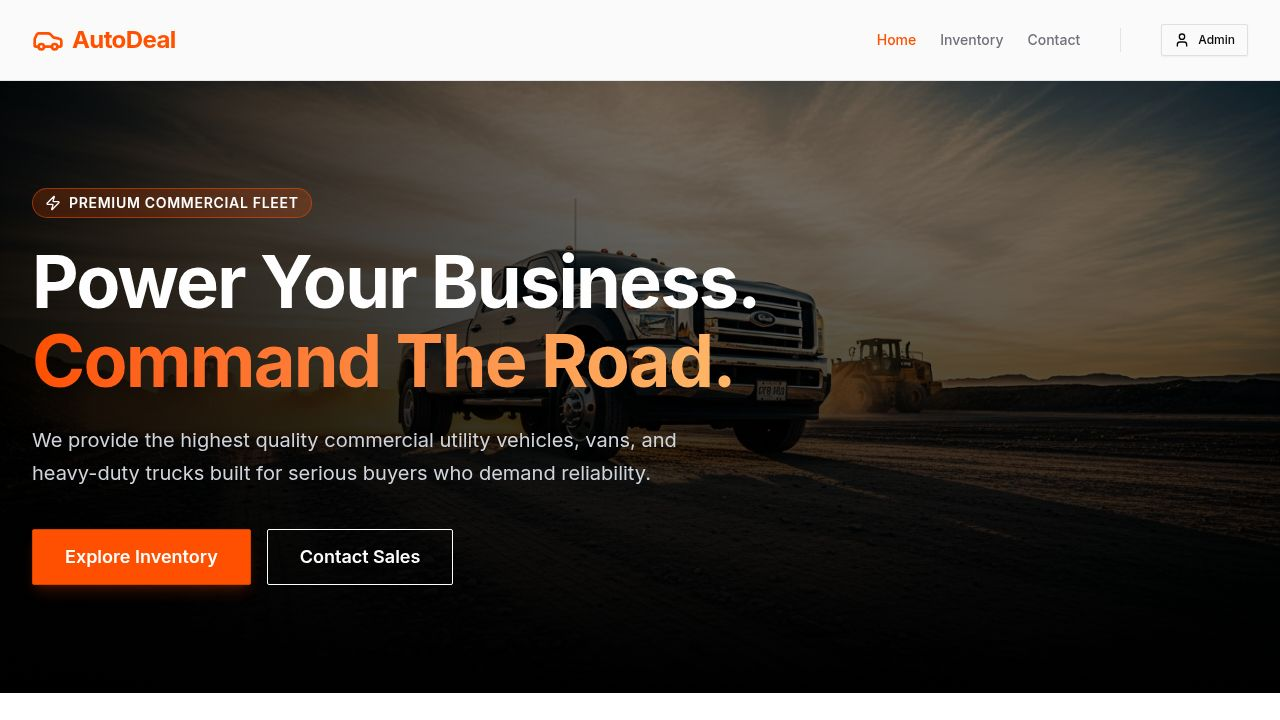
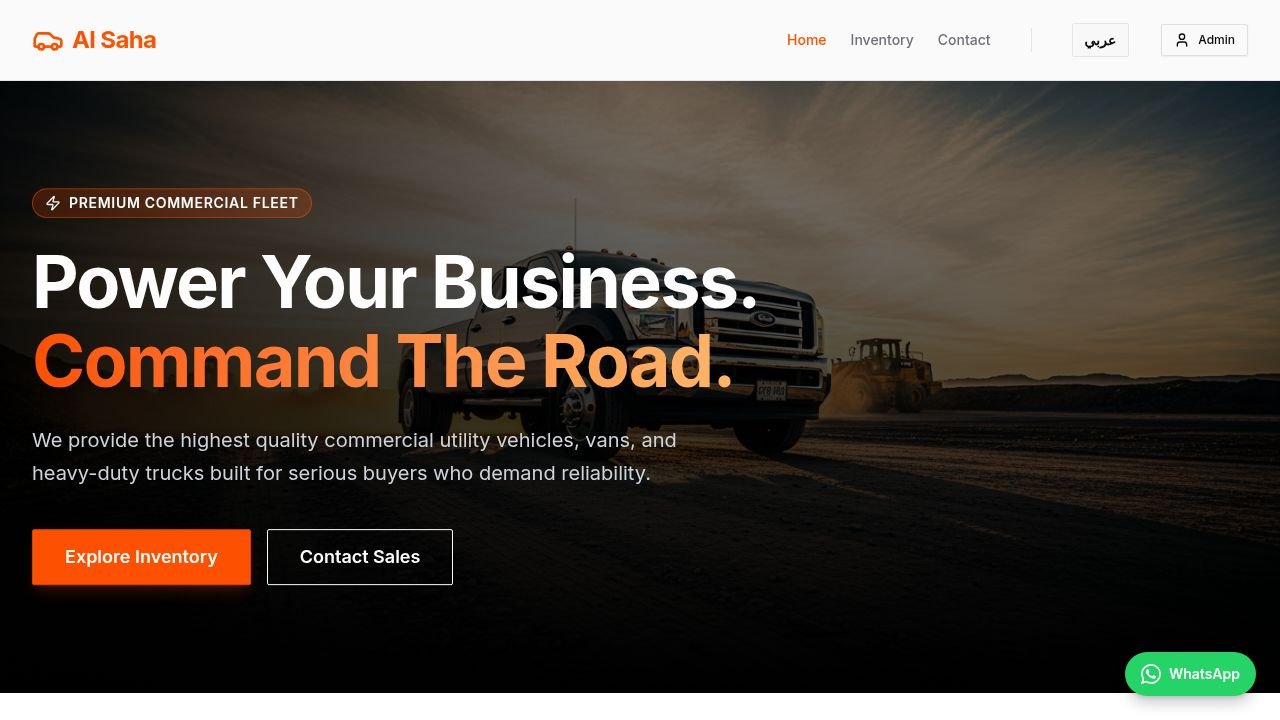
Enhance website security and add social media links
Integrate Helmet and rate-limiting middleware for API security, remove Replit branding, and add Facebook and WhatsApp links to the footer and contact page.

Replit-Commit-Author: Agent
Replit-Commit-Session-Id: ceb3cc87-1b48-4a02-8dc0-49e690403f3d
Replit-Commit-Checkpoint-Type: full_checkpoint
Replit-Commit-Event-Id: 10c99345-e737-48c0-a114-7ad992cdfd30
Replit-Commit-Screenshot-Url: https://storage.googleapis.com/screenshot-production-us-central1/a4580499-bd82-4671-9a9f-4544a6e9dfa8/ceb3cc87-1b48-4a02-8dc0-49e690403f3d/r27SVUo
Replit-Helium-Checkpoint-Created: true

diff --git a/artifacts/car-dealership/src/components/layout/Footer.tsx b/artifacts/car-dealership/src/components/layout/Footer.tsx
@@ -1,6 +1,17 @@
 import { Link } from "wouter";
-import { Car, Mail, MapPin, Phone } from "lucide-react";
+import { Car, Mail, Phone } from "lucide-react";
 import { useLanguage } from "@/contexts/LanguageContext";
+
+const FACEBOOK_URL = "https://www.facebook.com/share/18Nk4Pe6bY/?mibextid=wwXIfr";
+const WHATSAPP_URL = "https://wa.me/962787929281";
+
+function FacebookIcon({ className }: { className?: string }) {
+  return (
+    <svg xmlns="http://www.w3.org/2000/svg" viewBox="0 0 24 24" fill="currentColor" className={className}>
+      <path d="M24 12.073c0-6.627-5.373-12-12-12s-12 5.373-12 12c0 5.99 4.388 10.954 10.125 11.854v-8.385H7.078v-3.47h3.047V9.43c0-3.007 1.792-4.669 4.533-4.669 1.312 0 2.686.235 2.686.235v2.953H15.83c-1.491 0-1.956.925-1.956 1.874v2.25h3.328l-.532 3.47h-2.796v8.385C19.612 23.027 24 18.062 24 12.073z" />
+    </svg>
+  );
+}
 
 export function Footer() {
   const { t } = useLanguage();
@@ -9,6 +20,8 @@ export function Footer() {
     <footer className="bg-sidebar border-t border-border mt-auto">
       <div className="container mx-auto px-4 md:px-8 py-12 md:py-16">
         <div className="grid grid-cols-1 md:grid-cols-4 gap-8 md:gap-12">
+
+          {/* Brand */}
           <div className="space-y-4">
             <Link href="/" className="flex items-center gap-2 font-bold text-2xl tracking-tight text-primary">
               <Car className="h-8 w-8" />
@@ -17,8 +30,32 @@ export function Footer() {
             <p className="text-sm text-muted-foreground leading-relaxed max-w-xs">
               {t.footer.description}
             </p>
+            {/* Social Icons */}
+            <div className="flex items-center gap-3 pt-1">
+              <a
+                href={FACEBOOK_URL}
+                target="_blank"
+                rel="noopener noreferrer"
+                aria-label="Facebook"
+                className="h-9 w-9 flex items-center justify-center rounded-full bg-[#1877F2]/10 text-[#1877F2] hover:bg-[#1877F2]/20 transition-colors"
+              >
+                <FacebookIcon className="h-5 w-5" />
+              </a>
+              <a
+                href={WHATSAPP_URL}
+                target="_blank"
+                rel="noopener noreferrer"
+                aria-label="WhatsApp"
+                className="h-9 w-9 flex items-center justify-center rounded-full bg-[#25D366]/10 text-[#25D366] hover:bg-[#25D366]/20 transition-colors"
+              >
+                <svg xmlns="http://www.w3.org/2000/svg" viewBox="0 0 24 24" fill="currentColor" className="h-5 w-5">
+                  <path d="M17.472 14.382c-.297-.149-1.758-.867-2.03-.967-.273-.099-.471-.148-.67.15-.197.297-.767.966-.94 1.164-.173.199-.347.223-.644.075-.297-.15-1.255-.463-2.39-1.475-.883-.788-1.48-1.761-1.653-2.059-.173-.297-.018-.458.13-.606.134-.133.298-.347.446-.52.149-.174.198-.298.298-.497.099-.198.05-.371-.025-.52-.075-.149-.669-1.612-.916-2.207-.242-.579-.487-.5-.669-.51-.173-.008-.371-.01-.57-.01-.198 0-.52.074-.792.372-.272.297-1.04 1.016-1.04 2.479 0 1.462 1.065 2.875 1.213 3.074.149.198 2.096 3.2 5.077 4.487.709.306 1.262.489 1.694.625.712.227 1.36.195 1.871.118.571-.085 1.758-.719 2.006-1.413.248-.694.248-1.289.173-1.413-.074-.124-.272-.198-.57-.347m-5.421 7.403h-.004a9.87 9.87 0 01-5.031-1.378l-.361-.214-3.741.982.998-3.648-.235-.374a9.86 9.86 0 01-1.51-5.26c.001-5.45 4.436-9.884 9.888-9.884 2.64 0 5.122 1.03 6.988 2.898a9.825 9.825 0 012.893 6.994c-.003 5.45-4.437 9.884-9.885 9.884m8.413-18.297A11.815 11.815 0 0012.05 0C5.495 0 .16 5.335.157 11.892c0 2.096.547 4.142 1.588 5.945L.057 24l6.305-1.654a11.882 11.882 0 005.683 1.448h.005c6.554 0 11.89-5.335 11.893-11.893a11.821 11.821 0 00-3.48-8.413z" />
+                </svg>
+              </a>
+            </div>
           </div>
 
+          {/* Quick Links */}
           <div className="space-y-4">
             <h3 className="font-semibold text-lg">{t.footer.quickLinks}</h3>
             <ul className="space-y-2">
@@ -32,20 +69,21 @@ export function Footer() {
                   {t.footer.contactUs}
                 </Link>
               </li>
+              <li>
+                <a href={FACEBOOK_URL} target="_blank" rel="noopener noreferrer" className="text-sm text-muted-foreground hover:text-primary transition-colors">
+                  Facebook
+                </a>
+              </li>
             </ul>
           </div>
 
+          {/* Contact */}
           <div className="space-y-4 md:col-span-2">
             <h3 className="font-semibold text-lg">{t.footer.contactLocation}</h3>
             <ul className="space-y-3">
               <li className="flex items-center gap-3 text-sm text-muted-foreground">
                 <Phone className="h-5 w-5 text-primary shrink-0" />
-                <a
-                  href="https://wa.me/962787929281"
-                  target="_blank"
-                  rel="noopener noreferrer"
-                  className="hover:text-primary transition-colors"
-                >
+                <a href={WHATSAPP_URL} target="_blank" rel="noopener noreferrer" className="hover:text-primary transition-colors" dir="ltr">
                   0787929281
                 </a>
               </li>
@@ -53,13 +91,19 @@ export function Footer() {
                 <Mail className="h-5 w-5 text-primary shrink-0" />
                 <span>aabuashour3@gmail.com</span>
               </li>
+              <li className="flex items-center gap-3 text-sm text-muted-foreground">
+                <FacebookIcon className="h-5 w-5 text-[#1877F2] shrink-0" />
+                <a href={FACEBOOK_URL} target="_blank" rel="noopener noreferrer" className="hover:text-primary transition-colors">
+                  معرض الساحة — Facebook
+                </a>
+              </li>
             </ul>
           </div>
         </div>
 
         <div className="mt-12 pt-8 border-t border-border flex flex-col md:flex-row items-center justify-between gap-4">
           <p className="text-sm text-muted-foreground">
-            © {new Date().getFullYear()} Al Saha. {t.footer.rights}
+            © {new Date().getFullYear()} معرض الساحة — Al Saha. {t.footer.rights}
           </p>
           <div className="flex gap-4 text-sm text-muted-foreground">
             <span className="cursor-pointer hover:text-primary transition-colors">{t.footer.privacy}</span>

diff --git a/artifacts/api-server/src/app.ts b/artifacts/api-server/src/app.ts
@@ -1,39 +1,92 @@
-import express, { type Express } from "express";
+import express, { type Express, type Request, type Response, type NextFunction } from "express";
 import cors from "cors";
 import path from "path";
 import pinoHttp from "pino-http";
+import helmet from "helmet";
+import rateLimit from "express-rate-limit";
 import router from "./routes";
 import { logger } from "./lib/logger";
 
 const app: Express = express();
 
+/* ── Security headers ─────────────────────────────────────────────────────── */
+app.use(
+  helmet({
+    crossOriginResourcePolicy: { policy: "cross-origin" }, // allow images served from /api/uploads
+    contentSecurityPolicy: false, // frontend handles its own CSP
+  })
+);
+
+/* Remove fingerprinting header */
+app.disable("x-powered-by");
+
+/* ── CORS ─────────────────────────────────────────────────────────────────── */
+app.use(
+  cors({
+    origin: process.env.ALLOWED_ORIGIN || true, // tighten in production via env var
+    methods: ["GET", "POST", "PUT", "DELETE", "OPTIONS"],
+    allowedHeaders: ["Content-Type", "Authorization"],
+    credentials: true,
+  })
+);
+
+/* ── Rate limiting ────────────────────────────────────────────────────────── */
+const generalLimiter = rateLimit({
+  windowMs: 15 * 60 * 1000, // 15 minutes
+  max: 200,
+  standardHeaders: true,
+  legacyHeaders: false,
+  message: { error: "Too many requests, please try again later." },
+});
+
+const authLimiter = rateLimit({
+  windowMs: 15 * 60 * 1000,
+  max: 10, // strict: max 10 login attempts per 15 min
+  standardHeaders: true,
+  legacyHeaders: false,
+  message: { error: "Too many login attempts, please try again later." },
+});
+
+const contactLimiter = rateLimit({
+  windowMs: 60 * 60 * 1000, // 1 hour
+  max: 5, // max 5 contact submissions per hour per IP
+  standardHeaders: true,
+  legacyHeaders: false,
+  message: { error: "Too many messages sent, please try again later." },
+});
+
+/* ── Logging ──────────────────────────────────────────────────────────────── */
 app.use(
   pinoHttp({
     logger,
     serializers: {
       req(req) {
-        return {
-          id: req.id,
-          method: req.method,
-          url: req.url?.split("?")[0],
-        };
+        return { id: req.id, method: req.method, url: req.url?.split("?")[0] };
       },
       res(res) {
-        return {
-          statusCode: res.statusCode,
-        };
+        return { statusCode: res.statusCode };
       },
     },
-  }),
+  })
 );
-app.use(cors());
-app.use(express.json());
-app.use(express.urlencoded({ extended: true }));
 
-/* Serve uploaded car images statically at /api/uploads/<filename> */
+/* ── Body parsing ─────────────────────────────────────────────────────────── */
+app.use(express.json({ limit: "1mb" }));
+app.use(express.urlencoded({ extended: true, limit: "1mb" }));
+
+/* ── Static: uploaded car images ──────────────────────────────────────────── */
 const uploadsDir = path.join(process.cwd(), "..", "..", "uploads");
-app.use("/api/uploads", express.static(uploadsDir));
+app.use("/api/uploads", express.static(uploadsDir, { maxAge: "7d" }));
 
-app.use("/api", router);
+/* ── Routes with targeted rate limits ────────────────────────────────────── */
+app.use("/api/auth/login", authLimiter);
+app.use("/api/contact", contactLimiter);
+app.use("/api", generalLimiter, router);
+
+/* ── Global error handler — never leak stack traces ──────────────────────── */
+app.use((err: Error, _req: Request, res: Response, _next: NextFunction) => {
+  logger.error({ err: err.message }, "Unhandled error");
+  res.status(500).json({ error: "An unexpected error occurred." });
+});
 
 export default app;

diff --git a/artifacts/car-dealership/index.html b/artifacts/car-dealership/index.html
@@ -1,17 +1,18 @@
 <!DOCTYPE html>
-<html lang="en">
+<html lang="ar">
   <head>
     <meta charset="UTF-8" />
     <meta name="viewport" content="width=device-width, initial-scale=1.0, maximum-scale=1" />
-    <title>Car Dealership</title>
-    <meta name="description" content="Car Dealership — built on Replit. Update this description to reflect the app." />
+    <title>معرض الساحة — سيارات تجارية | Al Saha Cars</title>
+    <meta name="description" content="معرض الساحة عمان — أفضل المركبات التجارية وسيارات الشحن والونيتات بأسعار تنافسية في الأردن." />
     <meta name="robots" content="index, follow" />
-    <meta property="og:title" content="Car Dealership" />
-    <meta property="og:description" content="Car Dealership — built on Replit. Update this description to reflect the app." />
+    <meta property="og:title" content="معرض الساحة — سيارات تجارية | Al Saha Cars" />
+    <meta property="og:description" content="معرض الساحة عمان — أفضل المركبات التجارية وسيارات الشحن والونيتات بأسعار تنافسية في الأردن." />
     <meta property="og:type" content="website" />
+    <meta property="og:locale" content="ar_JO" />
     <meta name="twitter:card" content="summary_large_image" />
-    <meta name="twitter:title" content="Car Dealership" />
-    <meta name="twitter:description" content="Car Dealership — built on Replit. Update this description to reflect the app." />
+    <meta name="twitter:title" content="معرض الساحة — سيارات تجارية" />
+    <meta name="twitter:description" content="معرض الساحة عمان — مركبات تجارية موثوقة بأسعار منافسة." />
     <link rel="icon" type="image/svg+xml" href="/favicon.svg" />
     <link rel="preconnect" href="https://fonts.googleapis.com">
     <link rel="preconnect" href="https://fonts.gstatic.com" crossorigin>

diff --git a/artifacts/car-dealership/src/pages/Contact.tsx b/artifacts/car-dealership/src/pages/Contact.tsx
@@ -13,6 +13,15 @@ import { Phone, Mail, Clock, Send } from "lucide-react";
 import { useLanguage } from "@/contexts/LanguageContext";
 
 const WHATSAPP_NUMBER = "962787929281";
+const FACEBOOK_URL = "https://www.facebook.com/share/18Nk4Pe6bY/?mibextid=wwXIfr";
+
+function FacebookIcon({ className }: { className?: string }) {
+  return (
+    <svg xmlns="http://www.w3.org/2000/svg" viewBox="0 0 24 24" fill="currentColor" className={className}>
+      <path d="M24 12.073c0-6.627-5.373-12-12-12s-12 5.373-12 12c0 5.99 4.388 10.954 10.125 11.854v-8.385H7.078v-3.47h3.047V9.43c0-3.007 1.792-4.669 4.533-4.669 1.312 0 2.686.235 2.686.235v2.953H15.83c-1.491 0-1.956.925-1.956 1.874v2.25h3.328l-.532 3.47h-2.796v8.385C19.612 23.027 24 18.062 24 12.073z" />
+    </svg>
+  );
+}
 
 export default function Contact() {
   const { t } = useLanguage();
@@ -104,6 +113,22 @@ export default function Contact() {
                   <p className="text-muted-foreground mt-1 text-sm">aabuashour3@gmail.com</p>
                 </div>
               </div>
+
+              {/* Facebook */}
+              <a
+                href={FACEBOOK_URL}
+                target="_blank"
+                rel="noopener noreferrer"
+                className="flex items-start gap-4 group"
+              >
+                <div className="bg-[#1877F2]/10 p-3 rounded-full text-[#1877F2] shrink-0 group-hover:bg-[#1877F2]/20 transition-colors">
+                  <FacebookIcon className="h-6 w-6" />
+                </div>
+                <div>
+                  <h4 className="font-semibold text-foreground group-hover:text-[#1877F2] transition-colors">Facebook</h4>
+                  <p className="text-muted-foreground mt-1 text-sm">معرض الساحة</p>
+                </div>
+              </a>
 
               {/* Hours */}
               <div className="flex items-start gap-4">
